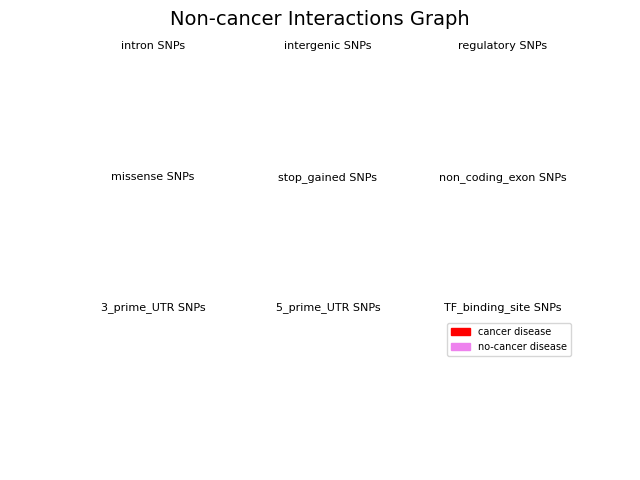
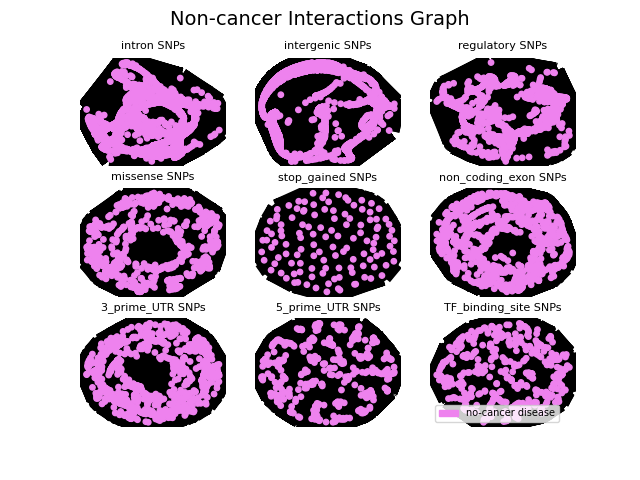
Added stats and graphs about overlaping SNPs sets

diff --git a/clustering_snps.py b/clustering_snps.py
@@ -25,7 +25,8 @@ dataset_ = dataset_.drop_duplicates(subset=["SNPS"], inplace=False)
 dataset_['SNPS'] = dataset_['SNPS'].apply(reformat_snps)
 dataset_ = dataset_[dataset_["SNPS"] != "empty"]
 
-def draw_graph(key, dataset, ax, index, threshold, style):
+
+def draw_graph(key, dataset, ax, index, style, mode='empty'):
     dataset = dataset[dataset.CONTEXT == key]
     snp_cancer_info = dataset.groupby(by="DISEASE/TRAIT")
     dict_ = {}
@@ -45,7 +46,7 @@ def draw_graph(key, dataset, ax, index, threshold, style):
                 name = 'cancer_{}'.format(ind)
                 dict_[name] = list(set(snp_info["SNPS"].tolist()))
 
-        if style == "no_cancer":
+        if style == "non_cancer":
             if snp_info["is_cancer"].unique().tolist()[0] == 0:
                 name = 'not_cancer_{}'.format(ind)
                 dict_[name] = list(set(snp_info["SNPS"].tolist()))
@@ -57,8 +58,12 @@ def draw_graph(key, dataset, ax, index, threshold, style):
         for ind1, (key1, val1) in enumerate(dict_.items()):
             if ind != ind1:
                 # select diseases which have no SNPs in common
-                if len(set(val).intersection(set(val1))) == 0:
-                    edges.append((key, key1))
+                if mode == 'empty':
+                    if len(set(val).intersection(set(val1))) == 0:
+                        edges.append((key, key1))
+                else:
+                    if len(set(val).intersection(set(val1))) > 0:
+                        edges.append((key, key1))
 
     edges = list(set(edges))
     g.add_edges_from(edges)
@@ -86,19 +91,32 @@ if randomize:
 styles = ["cancer_non_cancer", "cancer", "non_cancer"]
 styles_dict = {"cancer_non_cancer": "Cancer/Non-cancer Interactions Graph", "cancer": "Cancer Interactions Graph",
                "non_cancer": "Non-cancer Interactions Graph"}
+
+mode = 'not_empty'
 for style_ in styles:
     for i in range(1, 10):
         subax = plt.subplot(330 + i)
-        draw_graph(keys[i - 1], dataset_, subax, i, 0, style_)
+        draw_graph(keys[i - 1], dataset_, subax, i, style_, mode=mode)
     # https://networkx.org/documentation/stable/tutorial.html
     red_patch = mpatches.Patch(color='red', label='cancer disease')
     violet_patch = mpatches.Patch(color='violet', label='no-cancer disease')
-    plt.legend(handles=[red_patch, violet_patch], prop={'size': 7})
+    if style_ == "cancer":
+        plt.legend(handles=[red_patch], prop={'size': 7})
+    if style_ == "non_cancer":
+        plt.legend(handles=[violet_patch], prop={'size': 7})
+    if style_ == "cancer_non_cancer":
+        plt.legend(handles=[red_patch, violet_patch], prop={'size': 7})
     fig = plt.gcf()
     if randomize:
         fig.suptitle("randomized_{}".format(styles_dict[style_]), fontsize=14)
-        plt.savefig("pictures/random_{}.png".format(style_))
+        if mode == 'empty':
+            plt.savefig("pictures/random_{}.png".format(style_))
+        else:
+            plt.savefig("pictures/random_{}_{}.png".format(style_, mode))
     else:
         fig.suptitle("{}".format(styles_dict[style_]), fontsize=14)
-        plt.savefig("pictures/{}.png".format(style_))
+        if mode == 'empty':
+            plt.savefig("pictures/{}.png".format(style_))
+        else:
+            plt.savefig("pictures/{}_{}.png".format(style_, mode))
     plt.show()
